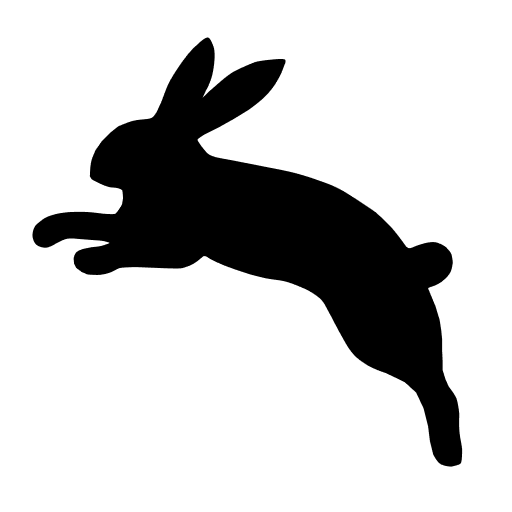
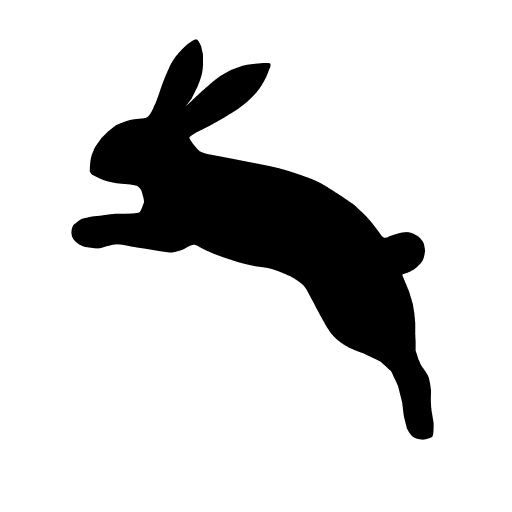
アイコン更新

diff --git a/src/components/icons/IconAppLogo.vue b/src/components/icons/IconAppLogo.vue
@@ -1,5 +1,6 @@
 <template>
-  <svg width="40" height="40" viewBox="0 0 430 430" fill="none" xmlns="http://www.w3.org/2000/svg">
-    <path d="M86.949 230.609C90.0717 229.566 104.449 229.5 104.449 229.5L132.5 230.609C132.5 230.609 146.949 231.144 149.449 230.609C151.949 230.075 158.159 228.264 163 225C166.093 222.915 169.949 219.5 170.5 219C171.237 218.331 172.004 218.501 173 218.5C173.996 218.499 178.5 221.5 178.5 221.5L184.5 224.5L192.5 228L203.5 232L218.5 236.914C218.5 236.914 227.303 239.248 233 240.5C241.697 242.411 246.909 242.021 255.449 244.5C263.181 246.744 274.5 252 274.5 252C274.5 252 285.709 257.581 290.449 263.5C293.615 267.454 294.536 270.232 296.949 274.5C299.059 278.232 302 284 302 284L307 293.5L314 306C314 306 317.572 312.089 320.5 315.5C325.098 320.857 328.515 323.186 334.449 327C341.687 331.653 354.449 335.703 354.449 335.703L372.949 344.703L384.449 355.203L391.949 371.203L396.449 389.203L398.267 403.985L401.5 417C401.5 417 404.587 423.534 408 426.051C411.732 428.802 419 429 419 429C419 429 426.643 427.573 428 426.051C429.357 424.529 429.373 418.435 429.5 413.5C429.603 409.5 427.112 400.581 426.643 392.203C426.305 386.159 426.643 376.703 426.643 376.703C426.643 376.703 425.652 367.023 424 362C422.685 358 416.134 349.703 416.134 349.703L412.949 342.5L409.949 333V323.5L409.5 313.5V302.5L408.5 292.5L407 283L402.949 269.5L399.225 260.5L395.5 251.5C395.5 251.5 395.691 250.809 396 250.5C397 249.5 400.656 248.865 403.5 247.5C405.706 246.441 409 244.5 409 244.5L413 241C413 241 416.187 237.945 417.5 235.5C418.669 233.324 419.007 231.92 419.5 229.5C419.814 227.957 420.024 226.446 420.1 225.6C420.19 224.6 419.833 222.424 419.5 220.5C419.067 217.999 418.917 217.106 417.5 215C416.113 212.938 413 210 413 210C413 210 409.775 207.901 407.5 207C405.43 206.18 404.214 205.736 402 205.5C400.369 205.326 398.012 205.587 395.5 206C393.117 206.392 389.5 207.5 389.5 207.5C389.5 207.5 385.728 208.613 383.357 209.585C382.063 210.115 380 211 380 211C380 211 377.85 211.79 376.5 211.5C375.141 211.208 373.5 209.585 373.5 209.585C373.5 209.585 365.11 197.615 358.856 190.68C353.121 184.322 343.091 175.444 343.091 175.444C343.091 175.444 330.185 166.479 321.5 161C315.097 156.961 311.468 154.396 304.5 151C297.481 147.579 292.97 146.15 285.5 143.5C277.527 140.671 273.092 139.292 264.949 137C256.993 134.761 244.3 132.363 244.3 132.363L217.5 127.109L198.583 123.431C198.583 123.431 190.794 122.043 185.449 121C182.775 120.478 178.702 119.026 176.949 118C175.196 116.974 173.449 115 173.449 115L168.949 109.5C168.949 109.5 164.828 104 164.949 102.5C165.07 101 172.949 96.5 172.949 96.5L186.949 89.5L201.449 81.401L215.949 72.5C215.949 72.5 225.233 66.0029 230.449 61C235.142 56.4988 237.692 53.807 241.449 48.5C244.584 44.0722 248.449 36.5 248.449 36.5L251.949 27.5C251.949 27.5 253.463 24.662 252.708 23.0838C251.949 21.5 238.449 23.0838 238.449 23.0838C238.449 23.0838 227.105 24.0981 223 25.5C218.895 26.9019 211.449 30.3338 211.449 30.3338C211.449 30.3338 205.19 32.9725 201.449 35.1675C196.208 38.2424 189 44.5 189 44.5L178.089 54L169.155 62.5C169.155 62.5 173.202 53.1965 174 52C175 50.5 177.566 44.8701 179 40C180.089 36.3021 180.311 34.5423 181 30.3338C181.695 26.0901 182 20 182 20C182 20 182.14 13.1684 181 10C180.28 8 178.165 2 176 0.999999C173.835 -7.15256e-07 167.5 6 167.5 6L161.5 11.5L156.5 17L150 25.5L143.5 35.1675C143.5 35.1675 140.011 40.6895 137.949 44.5C135.325 49.348 132.449 57.5 132.449 57.5L129.449 65.5L125.449 74C125.449 74 122.704 79.9154 119.234 81.401C115.5 83 107.186 82.4336 99.7913 84.5533C94.2961 86.1285 86.1286 89.8071 86.1286 89.8071L78.2464 96.1117L70.3641 103.992L64.0583 112.924C64.0583 112.924 61.0063 119.165 59.8544 123.431C58.2422 129.404 58.2779 139.193 58.2779 139.193L59.8544 141.82C59.8544 141.82 66.1656 145.222 70.3641 147.074C73.3975 148.411 77.2427 149.52 78.1323 149.685C79.0219 149.849 84.3101 150.031 86.1323 150.685C87.9544 151.338 89.0639 151.512 90.3325 152.853C91.1194 153.685 91.3835 161.259 91.3835 161.259L90.3325 167.563C90.3325 167.563 85.356 176 83.5012 177.02C81.6465 178.041 70.3641 177.02 70.3641 177.02C70.3641 177.02 61.4195 175.781 55.6505 175.444C48.6851 175.037 37.784 175.444 37.784 175.444C37.784 175.444 28.552 176.088 22.949 177.685C17.5372 179.227 14.0295 180.173 9.63229 183.685C5.84544 186.709 3.25178 188.261 1.94904 192.185C0.646304 196.108 0.346844 199.478 1.94904 203.289C3.04942 205.907 4.35682 207.388 6.35682 208.388C8.69722 209.558 11.8568 210.362 14.449 210C18.0963 209.491 23.5 206 23.5 206C23.5 206 29.6549 202.547 33.5 201.5C38.2534 200.205 44.6153 201.203 44.6153 201.203L54.949 202C54.949 202 60.5232 202.462 64.1323 202.685C66.5617 202.834 67.9564 202.932 70.3641 203.289C73.5736 203.766 78.1323 205.185 78.2464 205.916C78.2913 206.204 73.5493 208.117 70.3641 209C66.4042 210.098 59.949 210.5 59.949 210.5L51.9694 212.085C51.9694 212.085 46.782 213.392 44.6153 215.5C42.4758 217.581 41.9879 221.678 41.9879 221.678L42.449 226.5L44.6153 230.609L49.949 234.5L55.6505 236.914C55.6505 236.914 64.6323 237.64 68.1323 237.185C72.3613 236.635 74.8753 236.032 78.949 234.5C82.2007 233.277 83.6539 231.71 86.949 230.609Z" fill="black" stroke="black"/>
+  <svg width="40" height="44" viewBox="0 0 393 434" fill="none" xmlns="http://www.w3.org/2000/svg">
+    <path d="M45.1338 222.209C52.8444 220.868 59.1735 222.957 65.5695 224.115C75.236 225.865 78.9414 226.018 87.7921 227.656C95.3681 229.059 105.907 230.598 108.407 230.598C110.907 230.598 120.407 228.098 123.407 226.098C125.64 224.609 130.407 222.098 132.907 222.098C133.903 222.098 133.907 222.098 135.407 222.598C136.907 223.098 141.1 225.598 141.1 225.598L147.1 228.598L155.1 232.098L166.1 236.098L181.1 241.012C181.1 241.012 189.903 243.346 195.6 244.598C204.298 246.509 209.509 246.119 218.049 248.598C225.781 250.842 237.1 256.098 237.1 256.098C237.1 256.098 248.31 261.679 253.049 267.598C256.216 271.552 257.136 274.33 259.549 278.598C261.659 282.33 264.6 288.098 264.6 288.098L269.6 297.598L276.6 310.098C276.6 310.098 280.173 316.187 283.1 319.598C287.698 324.955 291.116 327.283 297.049 331.098C304.287 335.751 317.049 339.801 317.049 339.801L335.549 348.801L347.049 359.301L354.549 375.301L359.049 393.301L360.867 408.083L364.1 421.098C364.1 421.098 367.187 427.632 370.6 430.149C374.332 432.9 381.6 433.098 381.6 433.098C381.6 433.098 389.243 431.671 390.6 430.149C391.957 428.627 391.974 422.532 392.1 417.598C392.203 413.598 389.712 404.679 389.243 396.301C388.905 390.257 389.243 380.801 389.243 380.801C389.243 380.801 388.252 371.121 386.6 366.098C385.285 362.098 378.734 353.801 378.734 353.801L375.549 346.598L372.549 337.098V327.598L372.1 317.598V306.598L371.1 296.598L369.6 287.098L365.549 273.598L361.825 264.598L358.1 255.598C358.1 255.598 358.291 254.907 358.6 254.598C359.6 253.598 363.256 252.963 366.1 251.598C368.306 250.539 371.6 248.598 371.6 248.598L375.6 245.098C375.6 245.098 378.787 242.043 380.1 239.598C381.269 237.422 381.607 236.018 382.1 233.598C382.415 232.055 382.624 230.544 382.7 229.698C382.79 228.698 382.433 226.522 382.1 224.598L382.095 224.569C381.666 222.09 381.512 221.196 380.1 219.098C378.713 217.036 375.6 214.098 375.6 214.098C375.6 214.098 372.375 211.999 370.1 211.098C368.03 210.278 366.814 209.834 364.6 209.598C362.969 209.424 360.612 209.684 358.1 210.098C355.717 210.49 352.1 211.598 352.1 211.598C352.1 211.598 348.328 212.711 345.957 213.683C344.664 214.213 342.6 215.098 342.6 215.098C342.6 215.098 340.45 215.888 339.1 215.598C337.741 215.306 336.1 213.683 336.1 213.683C336.1 213.683 327.71 201.713 321.456 194.778C315.721 188.42 305.691 179.542 305.691 179.542C305.691 179.542 292.786 170.577 284.1 165.098C277.697 161.058 274.068 158.494 267.1 155.098C260.081 151.677 255.57 150.248 248.1 147.598C240.128 144.769 235.692 143.39 227.549 141.098C219.593 138.859 206.9 136.461 206.9 136.461L180.1 131.207L161.183 127.529C161.183 127.529 153.394 126.141 148.049 125.098C145.375 124.576 141.302 123.124 139.549 122.098C137.796 121.072 136.049 119.098 136.049 119.098L131.549 113.598C131.549 113.598 127.428 108.098 127.549 106.598C127.67 105.098 135.549 100.598 135.549 100.598L149.549 93.5978L164.049 85.4988L178.549 76.5978C178.549 76.5978 187.833 70.1007 193.049 65.0978C197.742 60.5966 200.292 57.9048 204.049 52.5978C207.184 48.17 211.049 40.5978 211.049 40.5978L214.549 31.5978C214.549 31.5978 216.064 28.7598 215.308 27.1816C214.549 25.5978 201.049 27.1816 201.049 27.1816C201.049 27.1816 189.705 28.1959 185.6 29.5978C181.495 30.9997 173.203 34.0842 173.203 34.0842C173.203 34.0842 167.79 37.0703 164.049 39.2653C158.809 42.3402 151.6 48.5978 151.6 48.5978L140.689 58.0978L131.755 66.5978L126.907 71.0978L119.203 78.0978C119.203 78.0978 129.829 64.8326 130.203 64.0842C130.703 63.0842 136.151 52.2148 137.203 49.5842C138.203 47.0842 140.911 39.8063 141.6 35.5978C142.295 31.3541 142.407 27.0978 142.407 27.0978V17.0978L140.407 8.09779C140.407 8.09779 138.024 2.07542 135.907 1.09779C133.742 0.0977892 125.203 7.08423 125.203 7.08423C125.203 7.08423 120.707 11.139 118.203 14.0842C116.306 16.3156 115.007 17.6252 113.203 20.0842C111.023 23.0544 108.203 28.0842 108.203 28.0842L103.703 38.0842C103.703 38.0842 101.203 44.0842 99.7028 48.0842C98.5051 51.2782 95.0492 61.5978 95.0492 61.5978L92.0492 69.5978L88.0492 78.0978C88.0492 78.0978 85.3038 84.0132 81.8344 85.4988C78.1001 87.0978 69.7857 86.5314 62.3914 88.6511C56.8963 90.2263 48.7288 93.9049 48.7288 93.9049L40.8465 100.209L32.9642 108.09L26.6584 117.022C26.6584 117.022 23.6064 123.262 22.4545 127.529C20.8423 133.501 20.8781 143.291 20.8781 143.291L22.4545 145.918C22.4545 145.918 28.7657 149.32 32.9642 151.171C35.9977 152.509 39.8429 153.618 40.7324 153.782C41.622 153.947 47.1815 155.188 48.957 155.485C50.7324 155.782 58.3389 156.485 59.457 156.485C60.457 156.485 70.8476 157.618 72.457 158.985C74.0664 160.353 76.4072 162.598 76.9072 164.598C77.4072 166.598 80.2644 175.098 79.4072 177.098C78.925 178.223 77.0184 184.959 74.9072 187.598C72.9072 190.098 51.7655 189.611 50.29 189.611C47.79 189.611 41.0977 190.319 34.3804 191.381C27.4667 192.474 24.5981 191.895 18.4002 193.647C15.6258 194.431 13.5848 194.261 11.0466 195.628C8.37237 197.068 4.82488 200.296 4.82488 200.296C4.82488 200.296 2.70369 201.003 1.64372 204.893C0.928584 207.517 0.710054 209.926 1.5037 212.954C2.41386 216.426 4.486 217.959 7.02042 220.307C9.92108 222.993 15.0115 224.477 15.0115 224.477C15.0115 224.477 18.9333 225.037 21.4463 225.395C24.5392 225.836 26.3081 226.134 29.4367 226.03C33.5925 225.893 35.7757 224.301 39.9014 223.483C43.2026 222.828 43.0619 222.569 45.1338 222.209Z" fill="black"/>
+    <path d="M382.1 224.598C382.433 226.522 382.79 228.698 382.7 229.698C382.624 230.544 382.415 232.055 382.1 233.598C381.607 236.018 381.269 237.422 380.1 239.598C378.787 242.043 375.6 245.098 375.6 245.098L371.6 248.598C371.6 248.598 368.306 250.539 366.1 251.598C363.256 252.963 359.6 253.598 358.6 254.598C358.291 254.907 358.1 255.598 358.1 255.598L361.825 264.598L365.549 273.598L369.6 287.098L371.1 296.598L372.1 306.598V317.598L372.549 327.598V337.098L375.549 346.598L378.734 353.801C378.734 353.801 385.285 362.098 386.6 366.098C388.252 371.121 389.243 380.801 389.243 380.801C389.243 380.801 388.905 390.257 389.243 396.301C389.712 404.679 392.203 413.598 392.1 417.598C391.974 422.532 391.957 428.627 390.6 430.149C389.243 431.671 381.6 433.098 381.6 433.098C381.6 433.098 374.332 432.9 370.6 430.149C367.187 427.632 364.1 421.098 364.1 421.098L360.867 408.083L359.049 393.301L354.549 375.301L347.049 359.301L335.549 348.801L317.049 339.801C317.049 339.801 304.287 335.751 297.049 331.098C291.116 327.283 287.698 324.955 283.1 319.598C280.173 316.187 276.6 310.098 276.6 310.098L269.6 297.598L264.6 288.098C264.6 288.098 261.659 282.33 259.549 278.598C257.136 274.33 256.216 271.552 253.049 267.598C248.31 261.679 237.1 256.098 237.1 256.098C237.1 256.098 225.781 250.842 218.049 248.598C209.509 246.119 204.298 246.509 195.6 244.598C189.903 243.346 181.1 241.012 181.1 241.012L166.1 236.098L155.1 232.098L147.1 228.598L141.1 225.598C141.1 225.598 136.907 223.098 135.407 222.598C133.907 222.098 133.903 222.098 132.907 222.098C130.407 222.098 125.64 224.609 123.407 226.098C120.407 228.098 110.907 230.598 108.407 230.598C105.907 230.598 95.3681 229.059 87.7921 227.656C78.9414 226.018 75.236 225.865 65.5695 224.115C59.1735 222.957 52.8444 220.868 45.1338 222.209C43.0619 222.569 43.2026 222.828 39.9014 223.483C35.7757 224.301 33.5925 225.893 29.4367 226.03C26.3081 226.134 24.5392 225.836 21.4463 225.395C18.9333 225.037 15.0115 224.477 15.0115 224.477C15.0115 224.477 9.92108 222.993 7.02042 220.307C4.486 217.959 2.41386 216.426 1.5037 212.954C0.710054 209.926 0.928584 207.517 1.64372 204.893C2.70369 201.003 4.82488 200.296 4.82488 200.296C4.82488 200.296 8.37237 197.068 11.0466 195.628C13.5848 194.261 15.6258 194.431 18.4002 193.647C24.5981 191.895 27.4667 192.474 34.3804 191.381C41.0977 190.319 47.79 189.611 50.29 189.611C51.7655 189.611 72.9072 190.098 74.9072 187.598C77.0184 184.959 78.925 178.223 79.4072 177.098C80.2644 175.098 77.4072 166.598 76.9072 164.598C76.4072 162.598 74.0664 160.353 72.457 158.985C70.8476 157.618 60.457 156.485 59.457 156.485C58.3389 156.485 50.7324 155.782 48.957 155.485C47.1815 155.188 41.622 153.947 40.7324 153.782C39.8429 153.618 35.9977 152.509 32.9642 151.171C28.7657 149.32 22.4545 145.918 22.4545 145.918L20.8781 143.291C20.8781 143.291 20.8423 133.501 22.4545 127.529C23.6064 123.262 26.6584 117.022 26.6584 117.022L32.9642 108.09L40.8465 100.209L48.7288 93.9049C48.7288 93.9049 56.8963 90.2263 62.3914 88.6511C69.7857 86.5314 78.1001 87.0978 81.8344 85.4988C85.3038 84.0132 88.0492 78.0978 88.0492 78.0978L92.0492 69.5978L95.0492 61.5978C95.0492 61.5978 98.5051 51.2782 99.7028 48.0842C101.203 44.0842 103.703 38.0842 103.703 38.0842L108.203 28.0842C108.203 28.0842 111.023 23.0544 113.203 20.0842C115.007 17.6252 116.306 16.3156 118.203 14.0842C120.707 11.139 125.203 7.08423 125.203 7.08423C125.203 7.08423 133.742 0.0977892 135.907 1.09779C138.024 2.07542 140.407 8.09779 140.407 8.09779L142.407 17.0978V27.0978C142.407 27.0978 142.295 31.3541 141.6 35.5978C140.911 39.8063 138.203 47.0842 137.203 49.5842C136.151 52.2148 130.703 63.0842 130.203 64.0842C129.829 64.8326 119.203 78.0978 119.203 78.0978L126.907 71.0978L131.755 66.5978L140.689 58.0978L151.6 48.5978C151.6 48.5978 158.809 42.3402 164.049 39.2653C167.79 37.0703 173.203 34.0842 173.203 34.0842C173.203 34.0842 181.495 30.9997 185.6 29.5978C189.705 28.1959 201.049 27.1816 201.049 27.1816C201.049 27.1816 214.549 25.5978 215.308 27.1816C216.064 28.7598 214.549 31.5978 214.549 31.5978L211.049 40.5978C211.049 40.5978 207.184 48.17 204.049 52.5978C200.292 57.9048 197.742 60.5966 193.049 65.0978C187.833 70.1007 178.549 76.5978 178.549 76.5978L164.049 85.4988L149.549 93.5978L135.549 100.598C135.549 100.598 127.67 105.098 127.549 106.598C127.428 108.098 131.549 113.598 131.549 113.598L136.049 119.098C136.049 119.098 137.796 121.072 139.549 122.098C141.302 123.124 145.375 124.576 148.049 125.098C153.394 126.141 161.183 127.529 161.183 127.529L180.1 131.207L206.9 136.461C206.9 136.461 219.593 138.859 227.549 141.098C235.692 143.39 240.128 144.769 248.1 147.598C255.57 150.248 260.081 151.677 267.1 155.098C274.068 158.494 277.697 161.058 284.1 165.098C292.786 170.577 305.691 179.542 305.691 179.542C305.691 179.542 315.721 188.42 321.456 194.778C327.71 201.713 336.1 213.683 336.1 213.683C336.1 213.683 337.741 215.306 339.1 215.598C340.45 215.888 342.6 215.098 342.6 215.098C342.6 215.098 344.664 214.213 345.957 213.683C348.328 212.711 352.1 211.598 352.1 211.598C352.1 211.598 355.717 210.49 358.1 210.098C360.612 209.684 362.969 209.424 364.6 209.598C366.814 209.834 368.03 210.278 370.1 211.098C372.375 211.999 375.6 214.098 375.6 214.098C375.6 214.098 378.713 217.036 380.1 219.098C381.512 221.196 381.666 222.09 382.095 224.569M382.1 224.598L382.095 224.569M382.1 224.598C382.099 224.588 382.097 224.579 382.095 224.569" stroke="black"/>
   </svg>
 </template>
